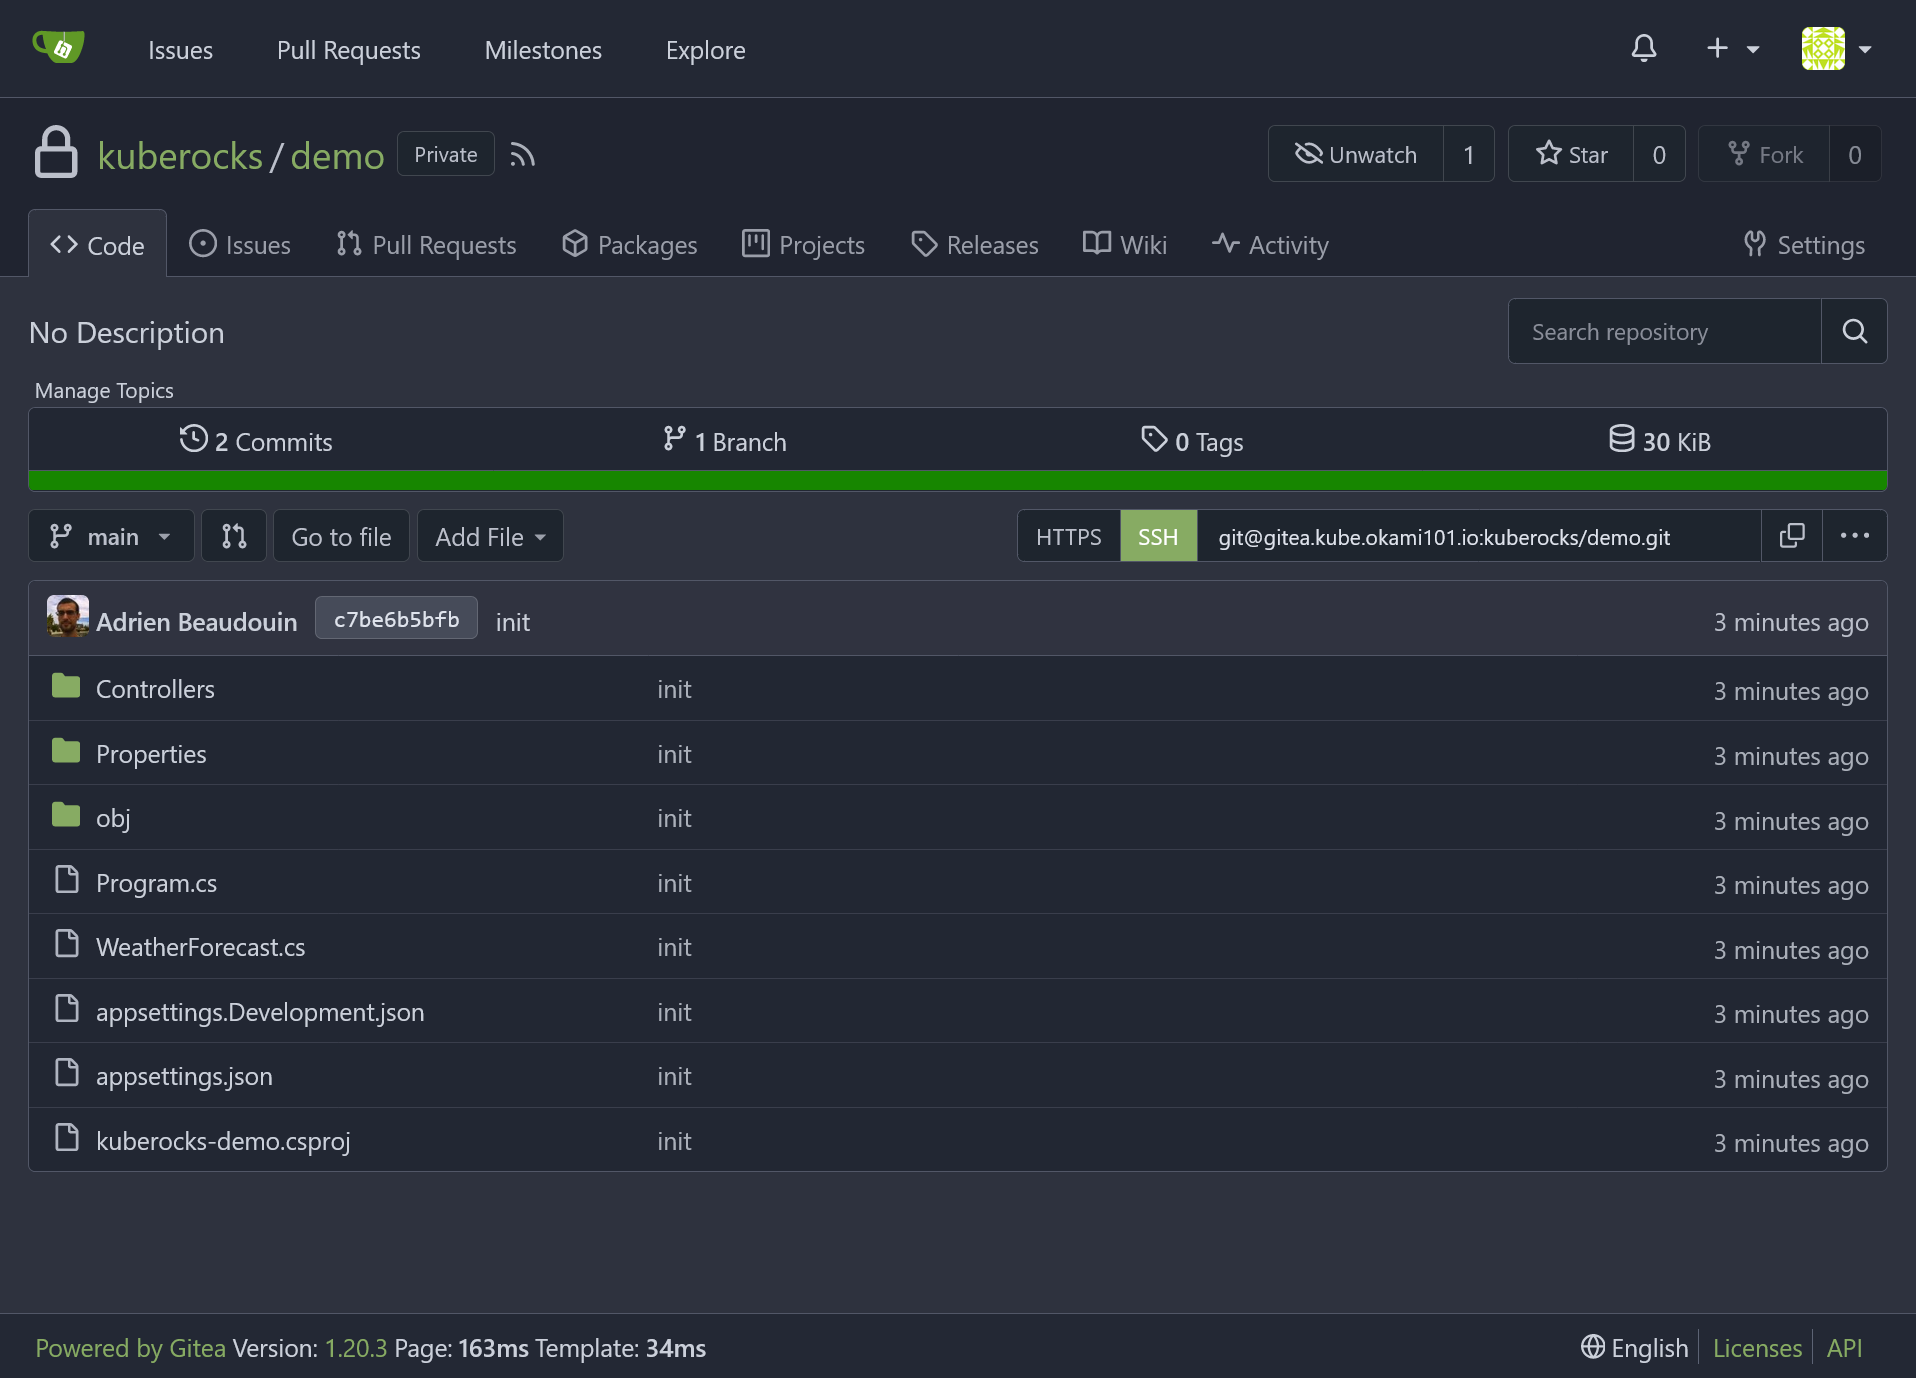
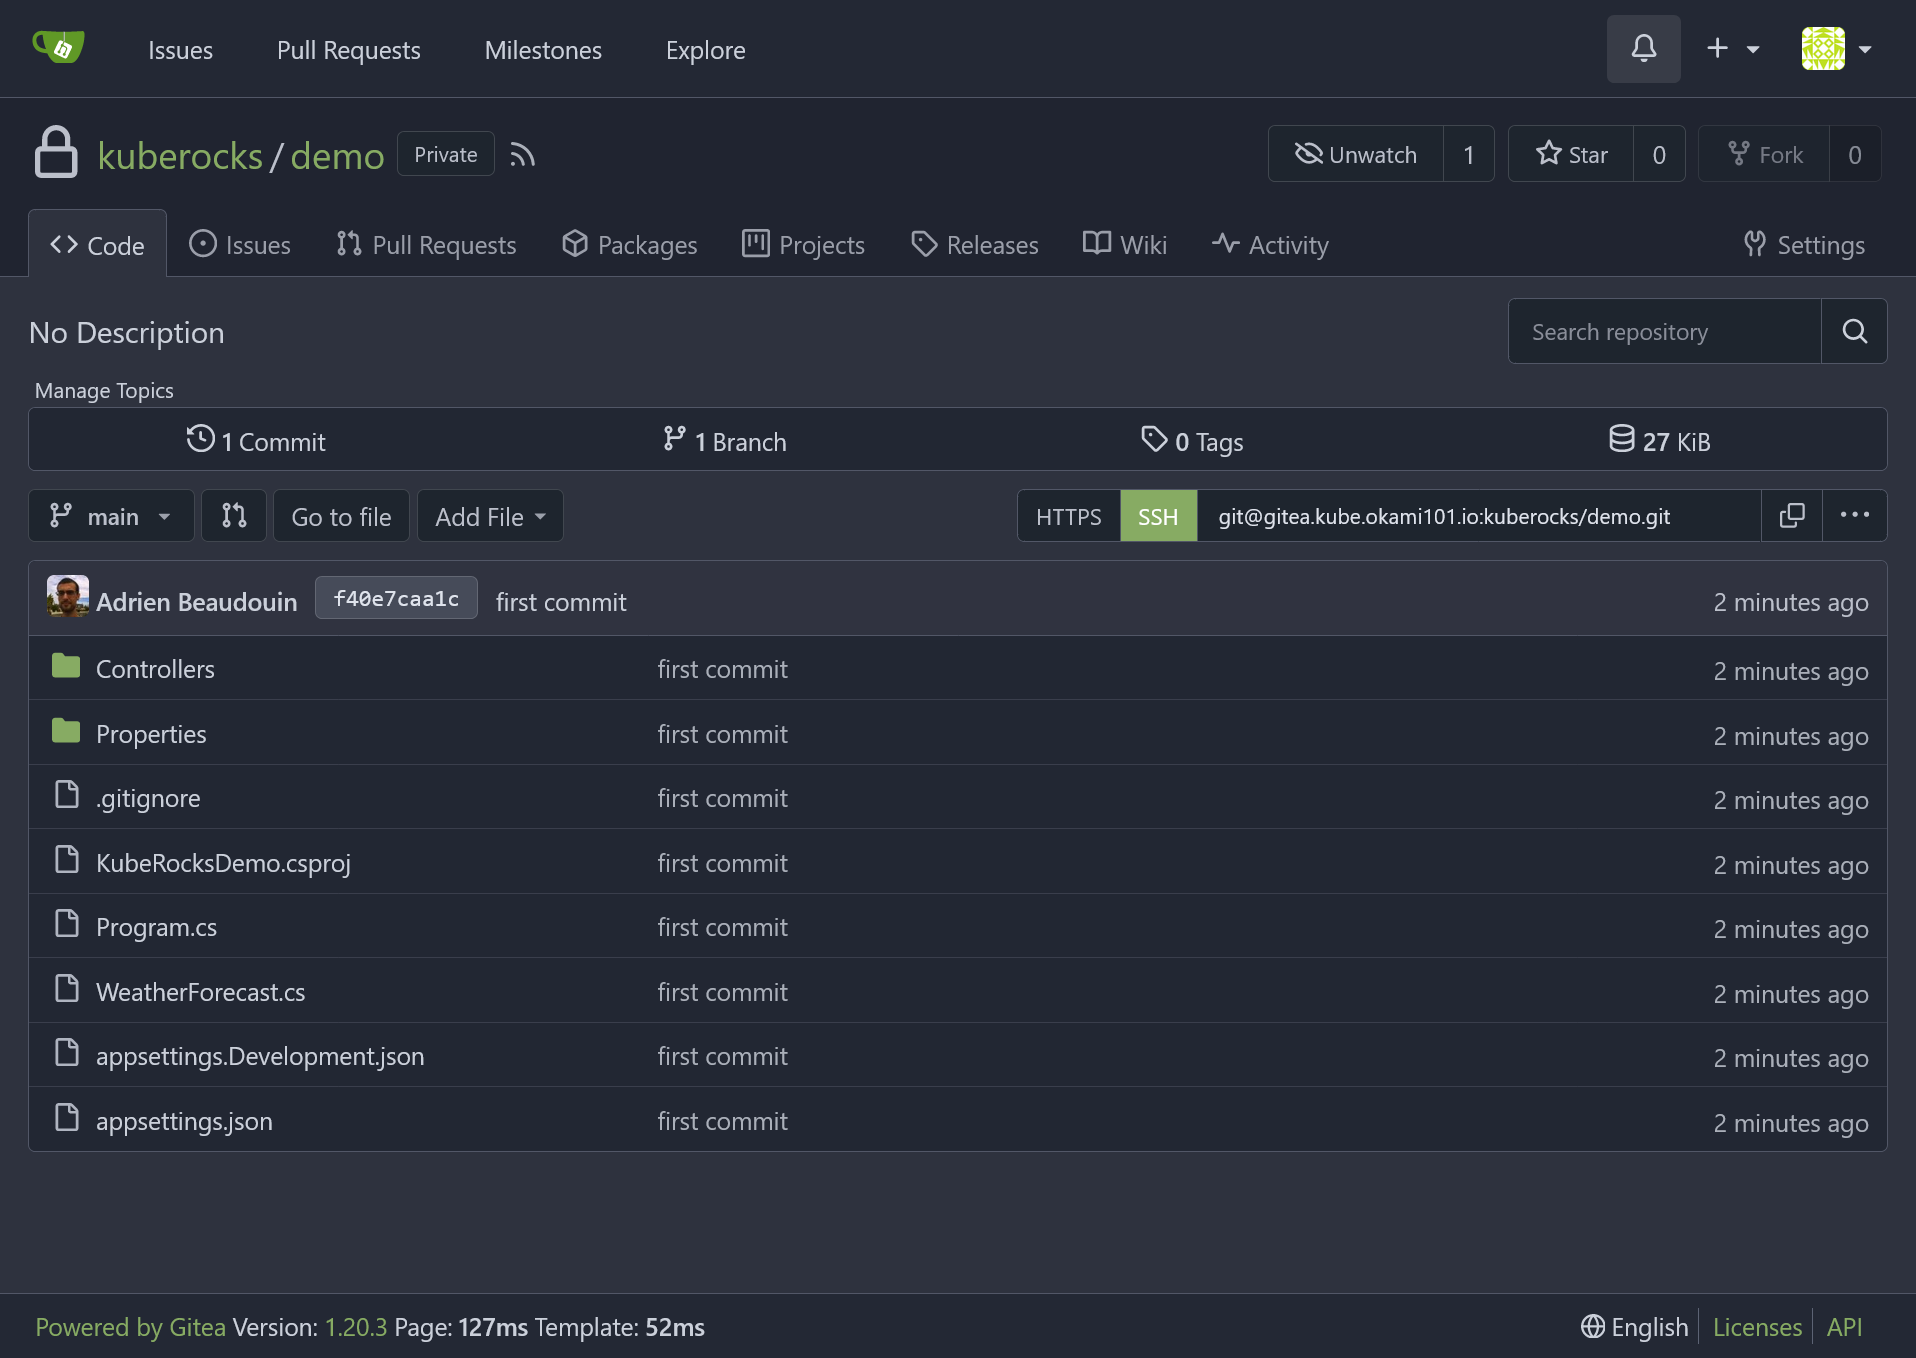
init k8s guide

diff --git a/content/posts/16-build-your-own-kubernetes-cluster-part-7/index.md b/content/posts/16-build-your-own-kubernetes-cluster-part-7/index.md
@@ -304,7 +304,18 @@ You should be able to log in `https://gitea.kube.rocks` with chosen admin creden
 
 ### Push a basic Web API project
 
-Let's generate a basic .NET Web API project. Create a new folder `demo` and initialize with `dotnet new webapi` (you may install [last .NET SDK](https://dotnet.microsoft.com/en-us/download)). Then create a new repo `kuberocks/demo` on Gitea, and follow the instructions to push your code.
+Let's generate a basic .NET Web API project. Create a new dotnet project like following (you may install [last .NET SDK](https://dotnet.microsoft.com/en-us/download)):
+
+```sh
+dotnet new webapi --name KubeRocksDemo -o kuberocks-demo`
+cd kuberocks-demo
+dotnet new gitignore
+git init
+git add .
+git commit -m "first commit"
+```
+
+Then create a new repo `kuberocks/demo` on Gitea, and follow the instructions of *existing repository* section to push your code.
 
 [![Gitea repo](gitea-repo.png)](gitea-repo.png)
 
@@ -397,6 +408,12 @@ resource "kubernetes_manifest" "gitea_ingress_ssh" {
 {{< /highlight >}}
 
 Now retry pull again and it should work seamlessly !
+
+### Gitea monitoring
+
+[Link](https://grafana.com/grafana/dashboards/17802)
+
+[![Gitea monitoring](gitea-monitoring.png)](gitea-monitoring.png)
 
 ## CI
 
@@ -617,7 +634,7 @@ You may set `worker.replicas` as the number of nodes in your runner pool. As usu
 
 Then go to `https://concourse.kube.rocks` and log in with chosen credentials.
 
-## Usage
+## Workflow
 
 It's now time to step back and think about how we'll use our CI. Our goal is to build our above dotnet Web API with Concourse CI as a container image, ready to deploy to our cluster through Flux. So we finish the complete CI/CD pipeline. To resume the scenario:
 
@@ -715,6 +732,7 @@ resource "kubernetes_secret_v1" "concourse_git" {
   }
 
   data = {
+    url            = "https://gitea.${var.domain}"
     username       = var.concourse_git_username
     password       = var.concourse_git_password
     git-user       = "Concourse CI <concourse@kube.rocks>"
@@ -769,17 +787,160 @@ Create the namespace `kuberocks` first by `k create namespace kuberocks`, or you
 
 ### Build and push the container image
 
-Now that all required credentials are in place, we have to tell Concourse how to check our repo and build our container image. This is done through a pipeline, which is a specific Concourse YAML file. Let's reuse our flux repository and create a file `pipelines/demo.yaml` with following content:
+Now that all required credentials are in place, we have to tell Concourse how to check our repo and build our container image. This is done through a pipeline, which is a specific Concourse YAML file.
 
-{{< highlight host="demo-kube-flux" file="pipelines/demo.yaml" >}}
+#### The Dockerfile
 
-```tf
+Firstly create following files in root of your repo that we'll use for building a production ready container image:
 
+{{< highlight host="kuberocks-demo" file=".dockerignore" >}}
+
+```txt
+**/bin/
+**/obj/
 ```
 
 {{< /highlight >}}
 
-In order to apply it we may need to install `fly` CLI tool. Just a matter of `scoop install concourse-fly` on Windows.
+{{< highlight host="kuberocks-demo" file="Dockerfile" >}}
+
+```Dockerfile
+FROM mcr.microsoft.com/dotnet/aspnet:7.0
+
+WORKDIR /publish
+COPY /publish .
+
+EXPOSE 80
+ENTRYPOINT ["dotnet", "KubeRocksDemo.dll"]
+```
+
+{{< /highlight >}}
+
+#### The pipeline
+
+Let's reuse our flux repository and create a file `pipelines/demo.yaml` with following content:
+
+{{< highlight host="demo-kube-flux" file="pipelines/demo.yaml" >}}
+
+```tf
+resources:
+  - name: version
+    type: semver
+    source:
+      driver: git
+      uri: ((git.url))/kuberocks/demo
+      branch: main
+      file: version
+      username: ((git.username))
+      password: ((git.password))
+      git_user: ((git.git-user))
+      commit_message: ((git.commit-message))
+  - name: source-code
+    type: git
+    icon: coffee
+    source:
+      uri: ((git.url))/kuberocks/demo
+      branch: main
+      username: ((git.username))
+      password: ((git.password))
+  - name: docker-image
+    type: registry-image
+    icon: docker
+    source:
+      repository: ((registry.name))/kuberocks/demo
+      tag: latest
+      username: ((registry.username))
+      password: ((registry.password))
+
+jobs:
+  - name: build
+    plan:
+      - get: source-code
+        trigger: true
+
+      - task: build-source
+        config:
+          platform: linux
+          image_resource:
+            type: registry-image
+            source:
+              repository: mcr.microsoft.com/dotnet/sdk
+              tag: "7.0"
+          inputs:
+            - name: source-code
+              path: .
+          outputs:
+            - name: binaries
+              path: publish
+          caches:
+            - path: /root/.nuget/packages
+          run:
+            path: /bin/sh
+            args:
+              - -ec
+              - |
+                dotnet format --verify-no-changes
+                dotnet build -c Release
+                dotnet publish -c Release -o publish --no-restore --no-build
+
+      - task: build-image
+        privileged: true
+        config:
+          platform: linux
+          image_resource:
+            type: registry-image
+            source:
+              repository: concourse/oci-build-task
+          inputs:
+            - name: source-code
+              path: .
+            - name: binaries
+              path: publish
+          outputs:
+            - name: image
+          run:
+            path: build
+      - put: version
+        params: { bump: patch }
+
+      - put: docker-image
+        params:
+          additional_tags: version/number
+          image: image/image.tar
+```
+
+{{< /highlight >}}
+
+A bit verbose compared to other CI, but it gets the job done. The price of maximum flexibility. Now in order to apply it we may need to install `fly` CLI tool. Just a matter of `scoop install concourse-fly` on Windows. Then:
+
+```sh
+# login to your Concourse instance
+fly -t kuberocks login -c https://concourse.kube.rocks
+
+# create the pipeline and active it
+fly -t kuberocks set-pipeline -p demo -c pipelines/demo.yaml
+fly -t kuberocks unpause-pipeline -p demo
+```
+
+A build will be trigger immediately. You can follow it on Concourse UI.
+
+[![Concourse pipeline](concourse-pipeline.png)](concourse-pipeline.png)
+
+If everything is ok, check in `https://gitea.kube.rocks/admin/packages`, you should see a new image tag on your registry ! A new file `version` is automatically pushed in code repo in order to keep tracking of the image tag version.
+
+[![Concourse build](concourse-build.png)](concourse-build.png)
+
+### The deployment
+
+If you followed the previous parts of this tutorial, you should have clue about how to deploy our app. Let's create a new Helm chart for that:
+
+{{< highlight host="demo-kube-flux" file="demo/aspnet.yaml" >}}
+
+```yaml
+
+```
+
+{{< /highlight >}}
 
 ## 6th check ✅
 
